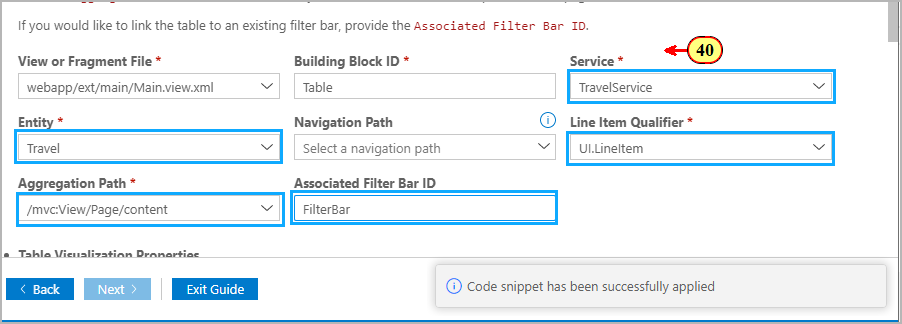
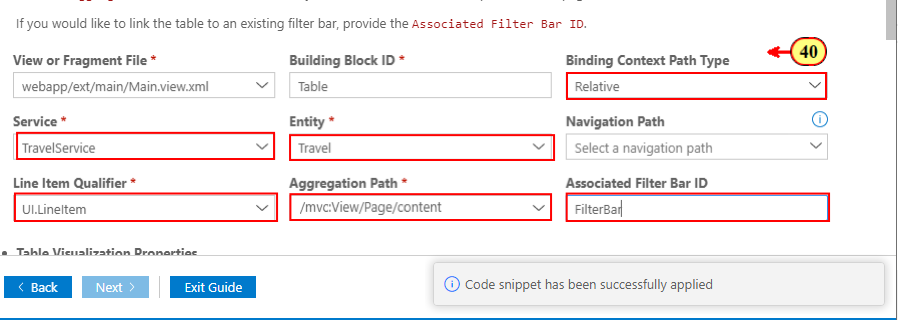
exercises updated

diff --git a/exercises/ex2/README.md b/exercises/ex2/README.md
@@ -165,7 +165,9 @@ open drop-downs and select entries for **CDS File** (31), **Service** (32) and *
 ![](./images/image64.png)
 
 (40) Enter the values as shown in the marked fields below.
+Keep the **Binding Context Path Type** set to relative. This makes sure that the metaPath to the LineItem annotation is relative to entity **Travel**.
 The **Aggregation Path** defines where building block table is to be inserted in the target xml view. Defining the **Associated Filter Bar ID** ensures that the filter bar can interact with the table.
+Leave all other values as proposed.
 
 ![](./images/image66.png)
 
